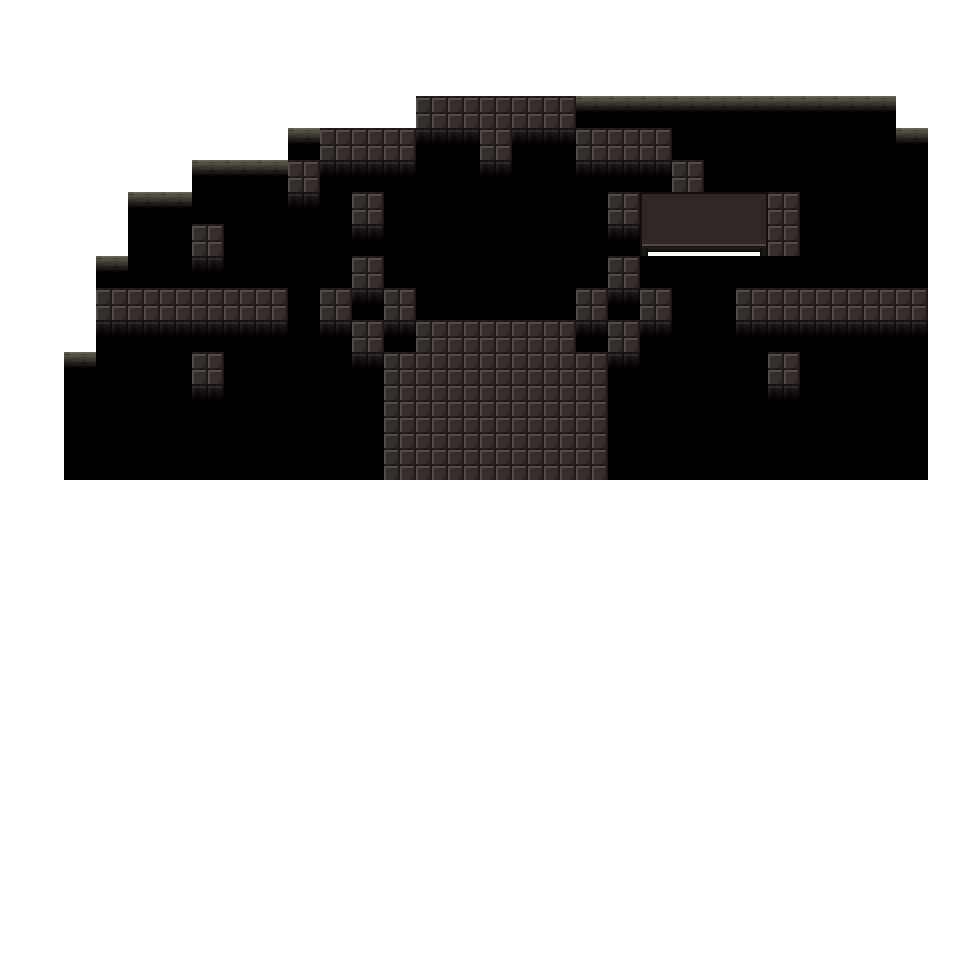
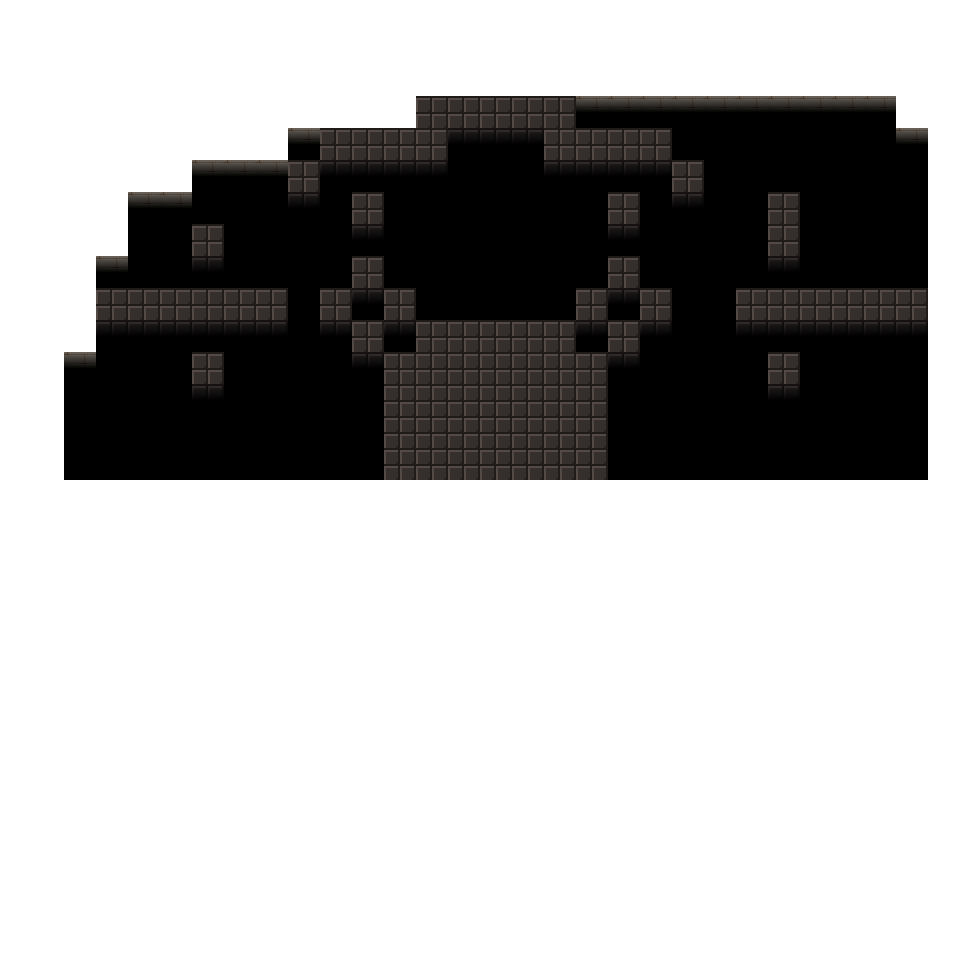
Debugged and Added auto downloads for pygame and qiskit

diff --git a/level.py b/level.py
@@ -27,7 +27,7 @@ class Level(State):
         self.game = game
         self.levelState = 0
         self.game.actions["toggleCircuitGrid"] = False
-        self.level = 0
+        self.level = 3
         self.loadResources()
 
         # sprite groups setup
@@ -63,6 +63,10 @@ class Level(State):
         self.quantumComputer = QuantumComputer(self.stateMarkers, self.circuitGrid)
         # self.moving_sprites = pygame.sprite.Group()
         # self.moving_sprites.add(self.stateMarkers.markers)
+
+        # Debug
+        self.lastCollision = None
+        self.lastPlayerCollision = None
 
     def loadResources(self):
         self.csvLayouts = {
@@ -346,13 +350,13 @@ class Level(State):
                             elif style == 'interactions':
                                 interaction = 'none'
                                 if col_index == 15 and row_index == 3: interaction = 'H Gate' # H Gate
-                                elif col_index == 15 and row_index == 10: interaction = 'X Gate' # X Gate
+                                elif (col_index == 15 and row_index == 10) or (col_index == 19 and row_index == 8): interaction = 'X Gate' # X Gate
                                 elif (col_index == 4 and row_index == 9) or (col_index == 6 and row_index == 11): interaction = 'Quantum Pressure Plate'
                                 elif col_index == 13 and row_index == 14: interaction = 'door 1'
                                 elif col_index == 17 and row_index == 14: interaction = 'door 2'
-                                elif 20 <= col_index <= 23 and 7 <= row_index <= 8: 
+                                elif 20 <= col_index <= 23 and 6 <= row_index <= 7: 
                                     interaction = 'toggle bridge'
-                                    dummy = Tile((x, y), [self.visible_sprites], [self.visibleSprites, self.interactableSprites], 'stairs down', self.level, tilesGraphics[1]['qgates'][int(val)], 1)
+                                    dummy = Tile((x, y), [self.visible_sprites], [self.visibleSprites, self.interactableSprites], interaction, self.level, tilesGraphics[1]['qgates'][int(val)], 1)
                                     dummy.invisible = True
                                 elif col_index == 24 and 6 <= row_index <= 7: interaction = 'stairs down'
                                 elif 25 <= col_index <=26 and 6 <= row_index <= 7:
@@ -421,7 +425,9 @@ class Level(State):
             self.player.enabled_movement = False
         else: 
             self.player.enabled_movement = True
-            
+        # if self.lastPlayerCollision is not None and self.lastCollision is not None:
+        #         pygame.draw.rect(window, (0, 255, 0), self.lastPlayerCollision, 2)
+        #         pygame.draw.rect(window, (0, 0, 255), self.lastCollision, 2)
 
     def levelLogic(self):
         if self.level == 0:
@@ -432,18 +438,23 @@ class Level(State):
                         self.levelUI.updateCount('X', 1)
                         self.player.quantumSpellBook['X'] += 1
                     elif sprite.spriteType == 'void':
-                        if self.player.superposition:
-                            for superpositionSprite in self.player.superpositionSprites:
-                                if sprite.hitbox.colliderect(superpositionSprite.hitbox):
-                                    print("superposed collided")
-                                    self.player.respawn(self.levelProperties[self.level]["spawn point"])
-                        else: 
+                        if not self.player.superposition:
+                            # print(f"player coord: {self.player.rect.topleft}")
+                            # print(f"void coord: {sprite.hitbox.topleft}")
                             self.player.respawn(self.levelProperties[self.level]["spawn point"])
-                            print("collided")
+                            # self.lastCollision = sprite.rect
+                            # self.lastPlayerCollision = self.player.rect.copy()
+                            # print("collided")
                     elif sprite.spriteType == 'stairs down' and not self.player.superposition:
                         self.levelUI.resetCount()
                         self.level = 1
                         self.loadLevel()
+                if self.player.superposition:
+                    for superpositionSprite in self.player.superpositionSprites:
+                        print(sprite.hitbox.colliderect(superpositionSprite.hitbox))
+                        if sprite.hitbox.colliderect(superpositionSprite.hitbox):
+                            print("superposed collided")
+                            self.player.respawn(self.levelProperties[self.level]["spawn point"])
         elif self.level == 1:
             self.levelProperties[self.level]['progress'] = 1 if self.player.rect.topleft[0] <= 400 else 0
             for sprite in self.interactableSprites:
@@ -535,20 +546,20 @@ class Level(State):
                         self.levelUI.updateCount('H', 1)
                         self.player.quantumSpellBook['H'] += 1
                     elif sprite.spriteType == 'door 1' or sprite.spriteType == 'door 2':
-                        print("collided w door")
-                        self.levelUI.resetCount()
-                        self.level = 2
-                        self.loadLevel()
+                        pass
                     elif sprite.spriteType == 'stairs up':
                         pass
                     elif sprite.spriteType == 'void':
-                        if self.player.superposition:
-                            for superpositionSprite in self.player.superpositionSprites:
-                                if sprite.hitbox.colliderect(superpositionSprite.hitbox):
-                                    self.player.respawn(self.levelProperties[self.level]["spawn point"])
-                        else: self.player.respawn(self.levelProperties[self.level]["spawn point"])
-
+                        if not self.player.superposition:
+                            self.player.respawn(self.levelProperties[self.level]["spawn point"])
+                    elif sprite.spriteType == 'void_toggle' and not self.levelProperties[self.level]["platform toggle"]:
+                        if not self.player.superposition:
+                            self.player.respawn(self.levelProperties[self.level]["spawn point"])
                 if self.player.superposition:
+                    for superpositionSprite in self.player.superpositionSprites:
+                        if sprite.hitbox.colliderect(superpositionSprite.hitbox):
+                            if sprite.spriteType == 'void':
+                                self.player.respawn(self.levelProperties[self.level]["spawn point"])
                     if sprite.spriteType == 'Quantum Pressure Plate':
                         sprite.properties['pressed'] = False
                         for superpositionSprite in self.player.superpositionSprites:
@@ -556,15 +567,18 @@ class Level(State):
                                 sprite.properties['pressed'] = True
                                 break
                         sprite.image = self.tilesGraphics[1]['qgates'][31 if sprite.properties['pressed'] else 30]
-
-                        pressurePlateSprites = [sprite for sprite in self.interactableSprites if sprite.spriteType == 'Quantum Pressure Plate']
-                        if pressurePlateSprites[0].properties['pressed'] and pressurePlateSprites[1].properties['pressed']:
-                            self.levelProperties[self.level]["stairs down unlocked"] = True
-                            for sprite in self.interactableSprites:
-                                if sprite.spriteType == 'toggle bridge':
-                                    sprite.invisible = False
-                                if sprite.spriteType == 'void_toggle':
-                                    sprite.kill()
+                pressurePlateSprites = [sprite for sprite in self.interactableSprites if sprite.spriteType == 'Quantum Pressure Plate']
+                if 'pressed' in pressurePlateSprites[0].properties and 'pressed' in pressurePlateSprites[1].properties:
+                    if pressurePlateSprites[0].properties['pressed'] and pressurePlateSprites[1].properties['pressed']:
+                        self.levelProperties[self.level]["stairs down unlocked"] = True
+                        self.levelProperties[self.level]["platform toggle"] = True
+                        for sprite in self.interactableSprites:
+                            if sprite.spriteType == 'toggle bridge':
+                                sprite.invisible = False
+                            if sprite.spriteType == 'void_toggle':
+                                sprite.kill()
+                if sprite.spriteType == 'toggle bridge' and not self.levelProperties[self.level]["platform toggle"]:
+                    sprite.invisible = True
 
             
 

diff --git a/assets/player.py b/assets/player.py
@@ -216,11 +216,17 @@ class Player(Entity):
         distance = 65
         collapsedState = self.nonCollidedPossibleState()
         oldPos = self.hitbox.center
-        if collapsedState != -1:
-            self.hitbox.x += distance * (collapsedState%2 * (2-collapsedState))
-            self.hitbox.y += distance * (-1 * ((collapsedState+1)%2) * (1-collapsedState))
-            self.rect.center = self.hitbox.center
-        else: self.rect.center = oldPos
+        if self.game.stateStack[-1].levelProperties[self.game.stateStack[-1].level]["qubit amount"] == 1:
+            if collapsedState != -1:
+                self.hitbox.y -= distance * (1 - 2*collapsedState)
+                self.rect.center = self.hitbox.center
+            else: self.rect.center = oldPos
+        elif self.game.stateStack[-1].levelProperties[self.game.stateStack[-1].level]["qubit amount"] == 2:
+            if collapsedState != -1:
+                self.hitbox.x += distance * (collapsedState%2 * (2-collapsedState))
+                self.hitbox.y += distance * (-1 * ((collapsedState+1)%2) * (1-collapsedState))
+                self.rect.center = self.hitbox.center
+            else: self.rect.center = oldPos
 
         if self.collided: self.rect.center = oldPos
         for sprite in self.superpositionSprites:

diff --git a/camera.py b/camera.py
@@ -67,4 +67,9 @@ class Camera(pygame.sprite.Group):
 
             # sprite.rect.topleft = offset_pos
             # inside your game loop, after drawing your sprites:
-            pygame.draw.rect(window, (255, 0, 0), sprite.rect, 2)  # red outline with thickness 2
+            # pygame.draw.rect(window, (255, 0, 0), sprite.rect, 2)  # red outline with thickness 2
+        
+        # for sprite in self.level.interactableSprites:
+        #     if sprite.spriteType == "void":
+
+                # pygame.draw.rect(window, (255, 0, 0), sprite.rect, 2)

diff --git a/game.py b/game.py
@@ -1,3 +1,19 @@
+import subprocess
+import sys
+
+try:
+    import pygame
+except ImportError:
+    print("pygame not found. Installing...")
+    subprocess.check_call([sys.executable, "-m", "pip", "install", "pygame"])
+    import pygame
+try:
+    import qiskit
+except ImportError:
+    print("qiskit not found. Installing...")
+    subprocess.check_call([sys.executable, "-m", "pip", "install", "qiskit"])
+    import qiskit
+
 import pygame
 import time
 
